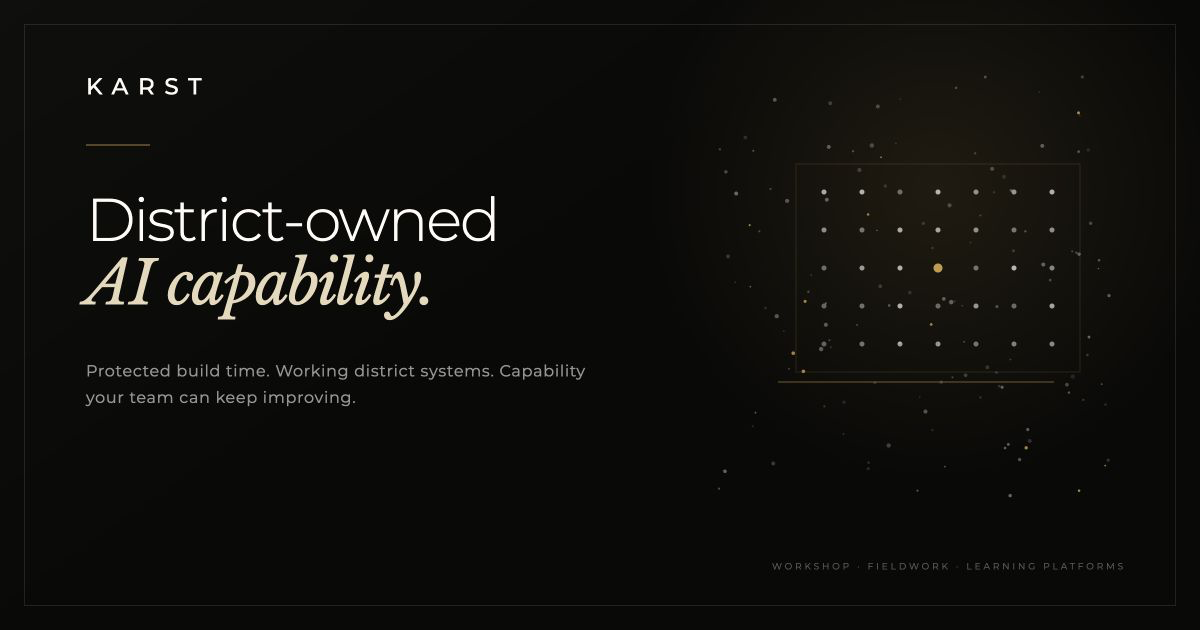
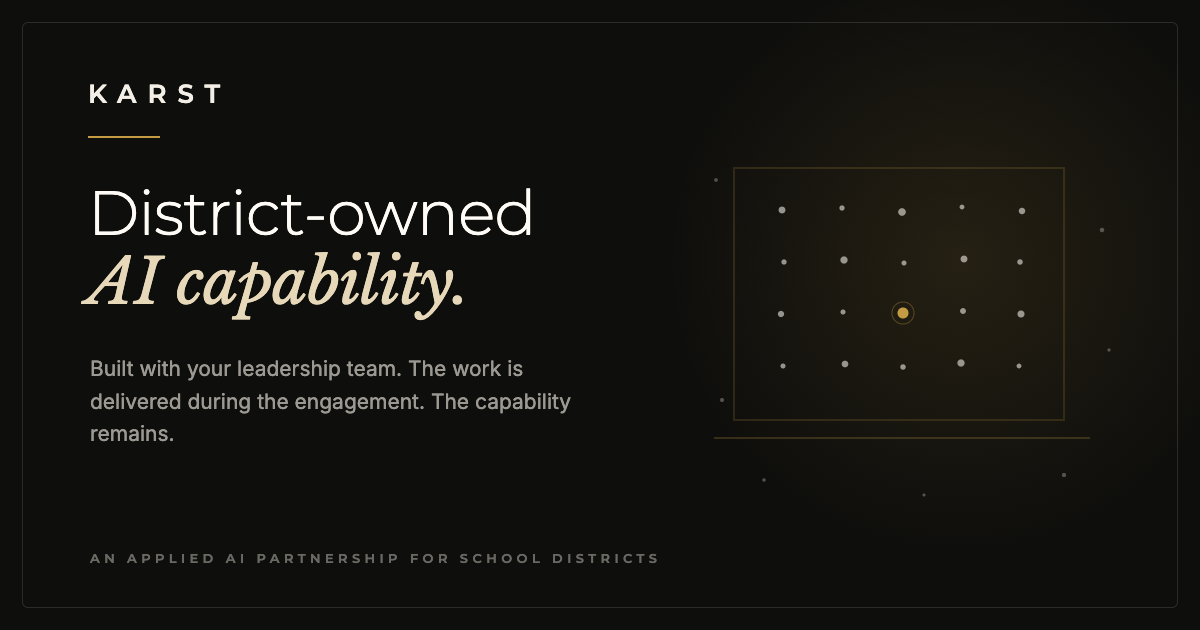
feat(site): lead sweep — share card repositioned, meta aligned, modal aurora
Self-directed round: the og-card image and every meta/JSON-LD
description still led with protected build time and a product-menu
footer; the card is rebuilt in the same register with the current
definition (built with your leadership team; the work is delivered
during the engagement; the capability remains) and 'An Applied AI
Partnership for School Districts'. SkiSlides visible copy drops its em
dashes. The Expand modal gains the aurora field so the liquid-glass
panels read at full size.

diff --git a/src/components/sections/WhatTeamsBuildArtifacts.tsx b/src/components/sections/WhatTeamsBuildArtifacts.tsx
@@ -206,7 +206,15 @@ export function ArtifactFrame({
                 actionIcon="close"
                 onAction={() => setIsOpen(false)}
               />
-              <div className="min-h-0 flex-1 overflow-y-auto bg-[#fffcf7] text-[#1a1816]">{children}</div>
+              <div
+                className="min-h-0 flex-1 overflow-y-auto text-[#1a1816]"
+                style={{
+                  background:
+                    'radial-gradient(560px 380px at 14% 18%, rgba(45,138,138,0.16), transparent 70%), radial-gradient(620px 420px at 86% 70%, rgba(201,138,30,0.12), transparent 70%), linear-gradient(178deg, #fffcf7 0%, #faf6ec 100%)',
+                }}
+              >
+                {children}
+              </div>
             </motion.div>
           </motion.div>
         )}

diff --git a/index.html b/index.html
@@ -25,14 +25,14 @@
     </noscript>
 
     <title>Karst — District-Owned AI Capability</title>
-    <meta name="description" content="Karst gives school district teams protected time and expert partnership to build working AI systems they own and can keep improving." />
+    <meta name="description" content="Karst builds internal AI capability with school district leadership teams. The work is delivered during the engagement. The capability remains." />
     <link rel="canonical" href="https://karstinsights.com/" />
 
     <!-- Open Graph (Facebook, LinkedIn, iMessage, Slack) -->
     <meta property="og:type" content="website" />
     <meta property="og:site_name" content="Karst" />
     <meta property="og:title" content="Karst — District-Owned AI Capability" />
-    <meta property="og:description" content="Protected build time. Working district systems. Capability your team can keep improving." />
+    <meta property="og:description" content="Built with your leadership team. The work is delivered during the engagement. The capability remains." />
     <meta property="og:url" content="https://karstinsights.com" />
     <meta property="og:image" content="https://karstinsights.com/og-card.png" />
     <meta property="og:image:width" content="1200" />
@@ -41,7 +41,7 @@
     <!-- Twitter / X -->
     <meta name="twitter:card" content="summary_large_image" />
     <meta name="twitter:title" content="Karst — District-Owned AI Capability" />
-    <meta name="twitter:description" content="Protected build time. Working district systems. Capability your team can keep improving." />
+    <meta name="twitter:description" content="Built with your leadership team. The work is delivered during the engagement. The capability remains." />
     <meta name="twitter:image" content="https://karstinsights.com/og-card.png" />
 
     <script type="application/ld+json">
@@ -55,7 +55,7 @@
           "legalName": "Anyra Inc.",
           "url": "https://karstinsights.com/",
           "logo": "https://karstinsights.com/favicon.png",
-          "description": "Karst gives school district teams protected time and expert partnership to build working AI systems they own and can keep improving."
+          "description": "Karst builds internal AI capability with school district leadership teams. The work is delivered during the engagement. The capability remains."
         },
         {
           "@type": "WebSite",

diff --git a/src/components/art/SkiSlides.tsx b/src/components/art/SkiSlides.tsx
@@ -29,11 +29,11 @@ const ACTIVITIES: { id: string; label: string; domain: string }[] = [
   { id: 'open-ended-project', label: 'Working on a project with no single right answer', domain: 'Artistic' },
   { id: 'follow-clear-steps', label: 'Following a well-defined checklist or process', domain: 'Conventional' },
   { id: 'help-someone-stuck', label: 'Helping someone who is stuck figure out the next step', domain: 'Social' },
-  { id: 'research-deep-dive', label: 'Going deep on a topic — reading, comparing, synthesizing', domain: 'Investigative' },
+  { id: 'research-deep-dive', label: 'Going deep on a topic: reading, comparing, synthesizing', domain: 'Investigative' },
   { id: 'persuade-audience', label: 'Pitching or persuading an audience', domain: 'Enterprising' },
   { id: 'organize-data', label: 'Organizing messy data into a clean system', domain: 'Conventional' },
   { id: 'physical-outdoor', label: 'Working outdoors or with your body', domain: 'Realistic' },
-  { id: 'make-something', label: 'Making something from scratch — art, writing, design, code', domain: 'Artistic' },
+  { id: 'make-something', label: 'Making something from scratch: art, writing, design, code', domain: 'Artistic' },
   { id: 'teach-explain', label: 'Teaching or explaining a concept until someone really gets it', domain: 'Social' },
   { id: 'rapid-iteration', label: 'Trying things fast, breaking them, figuring out why', domain: 'Investigative' },
   { id: 'plan-logistics', label: 'Planning out logistics so nothing falls through the cracks', domain: 'Conventional' },
@@ -69,7 +69,7 @@ function EnergyDrainSlide({ sorts, onCycle }: { sorts: Record<string, Sort>; onC
       <div className="ghost-border bg-[#F0EEE6] px-4 py-3.5 mb-5 flex items-start gap-3">
         <span className="text-[13px] leading-none mt-1" style={{ color: BRASS }} aria-hidden>▶</span>
         <p className="font-body text-sm text-on-surface-variant leading-relaxed m-0">
-          <strong className="text-on-surface">You at 22 — first week of a real job.</strong> Sort these
+          <strong className="text-on-surface">You at 22, first week of a real job.</strong> Sort these
           for the version of you two years past graduation. Click to mark energizing or draining;
           click again to undo.
         </p>
@@ -178,7 +178,7 @@ function ClusteringSlide({ sorts }: { sorts: Record<string, Sort> }) {
           </p>
         ) : (
           <p className="font-body text-base text-on-surface-variant leading-relaxed mb-5">
-            Mark a few activities as energizing on the last slide — the more you sort, the clearer
+            Mark a few activities as energizing on the last slide. The more you sort, the clearer
             the cluster reads.
           </p>
         )}

diff --git a/src/lib/usePageMeta.ts b/src/lib/usePageMeta.ts
@@ -2,7 +2,7 @@ import { useEffect } from 'react'
 
 const DEFAULT_TITLE = 'Karst — District-Owned AI Capability'
 const DEFAULT_DESCRIPTION =
-  'Karst gives school district teams protected time and expert partnership to build working AI systems they own and can keep improving.'
+  'Karst builds internal AI capability with school district leadership teams. The work is delivered during the engagement. The capability remains.'
 
 /**
  * Per-route document title + meta description for the SPA. The defaults live